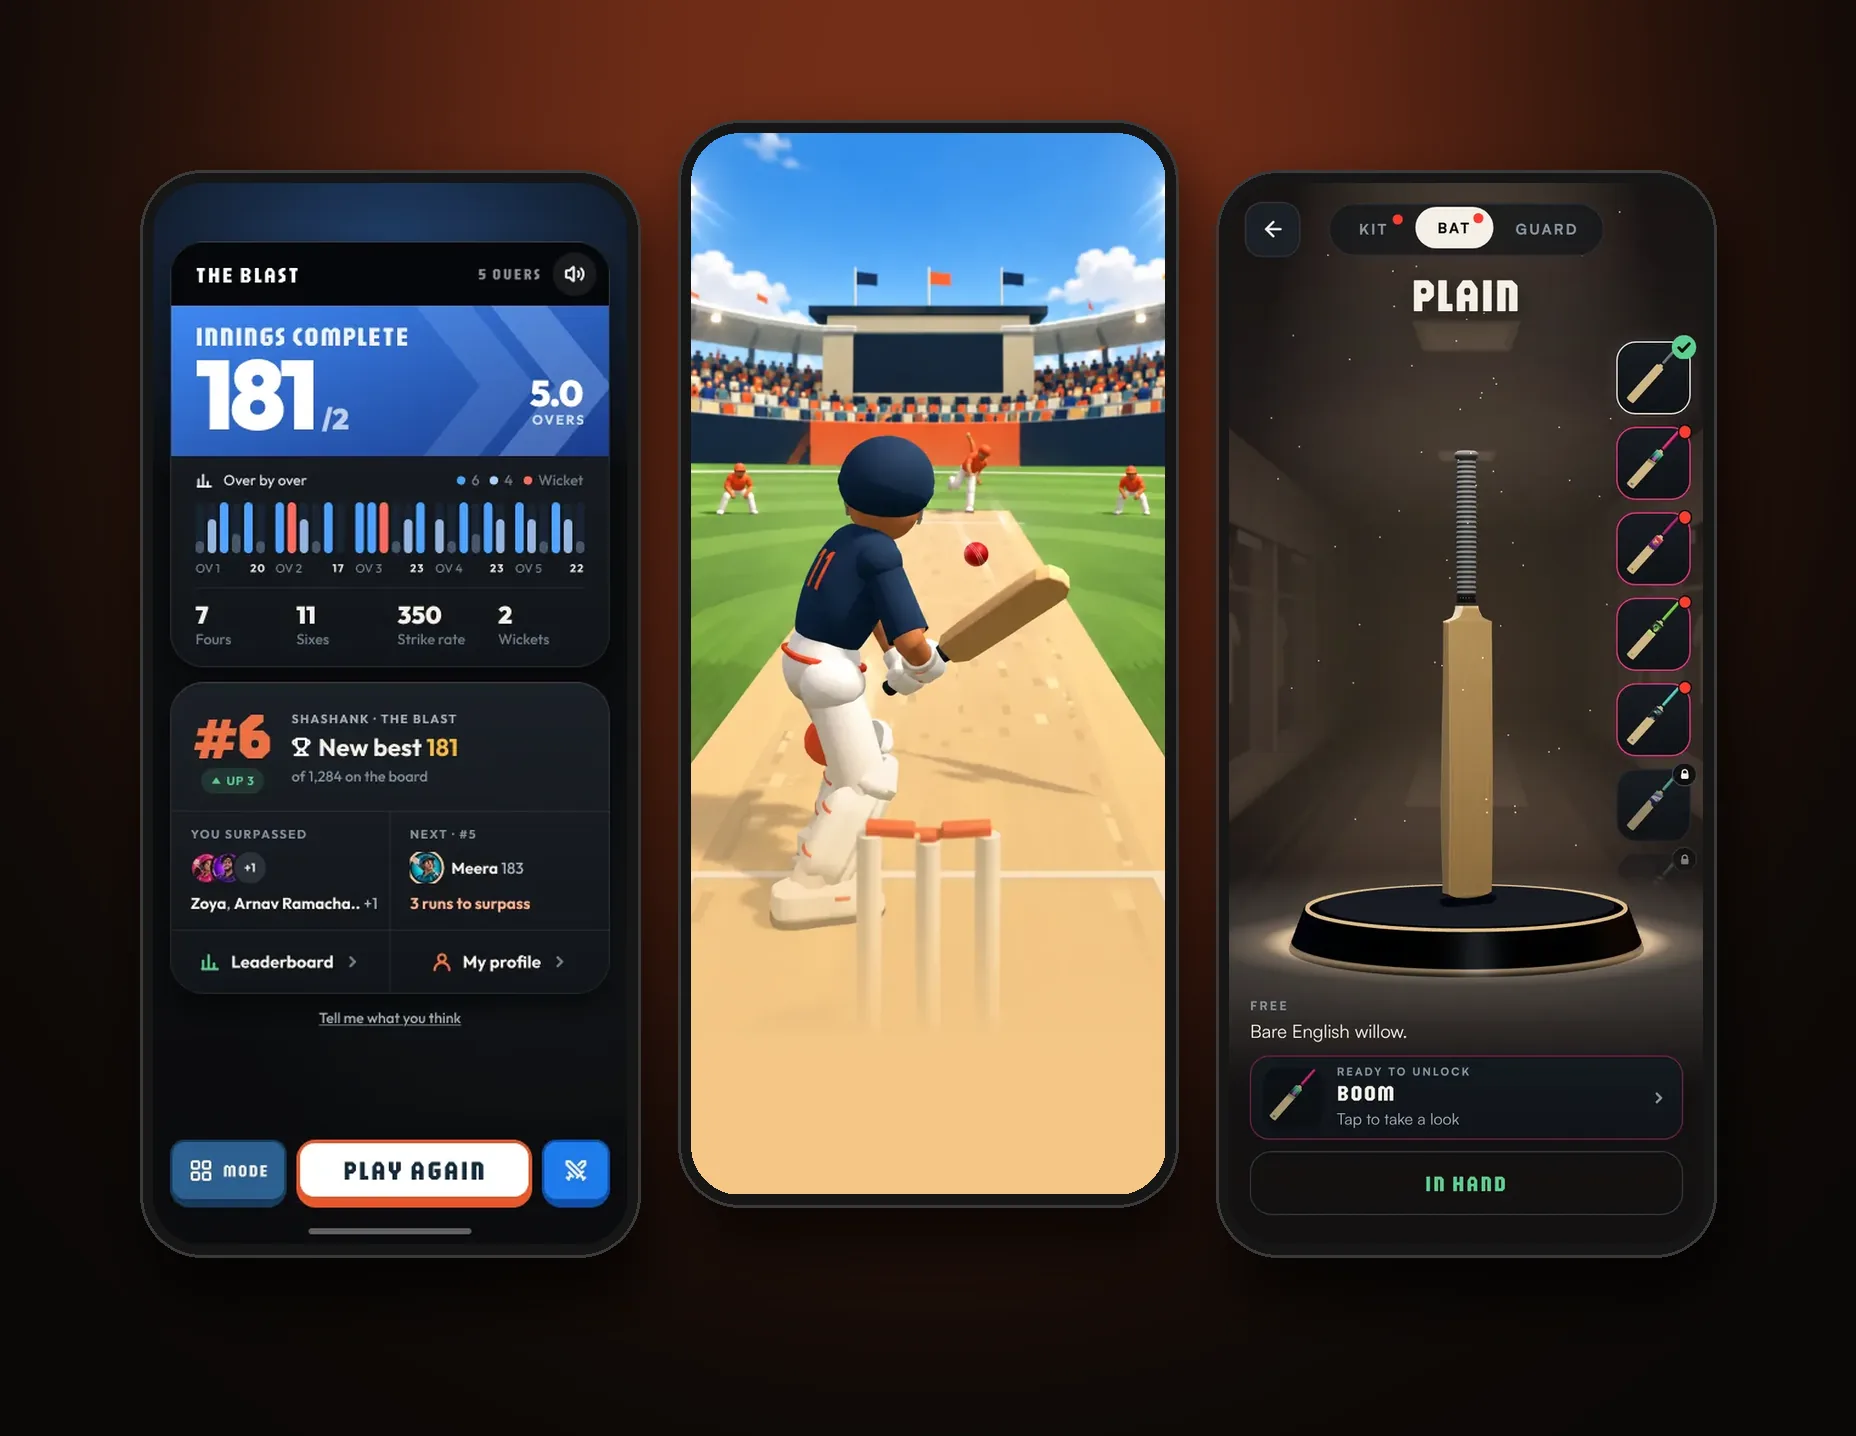
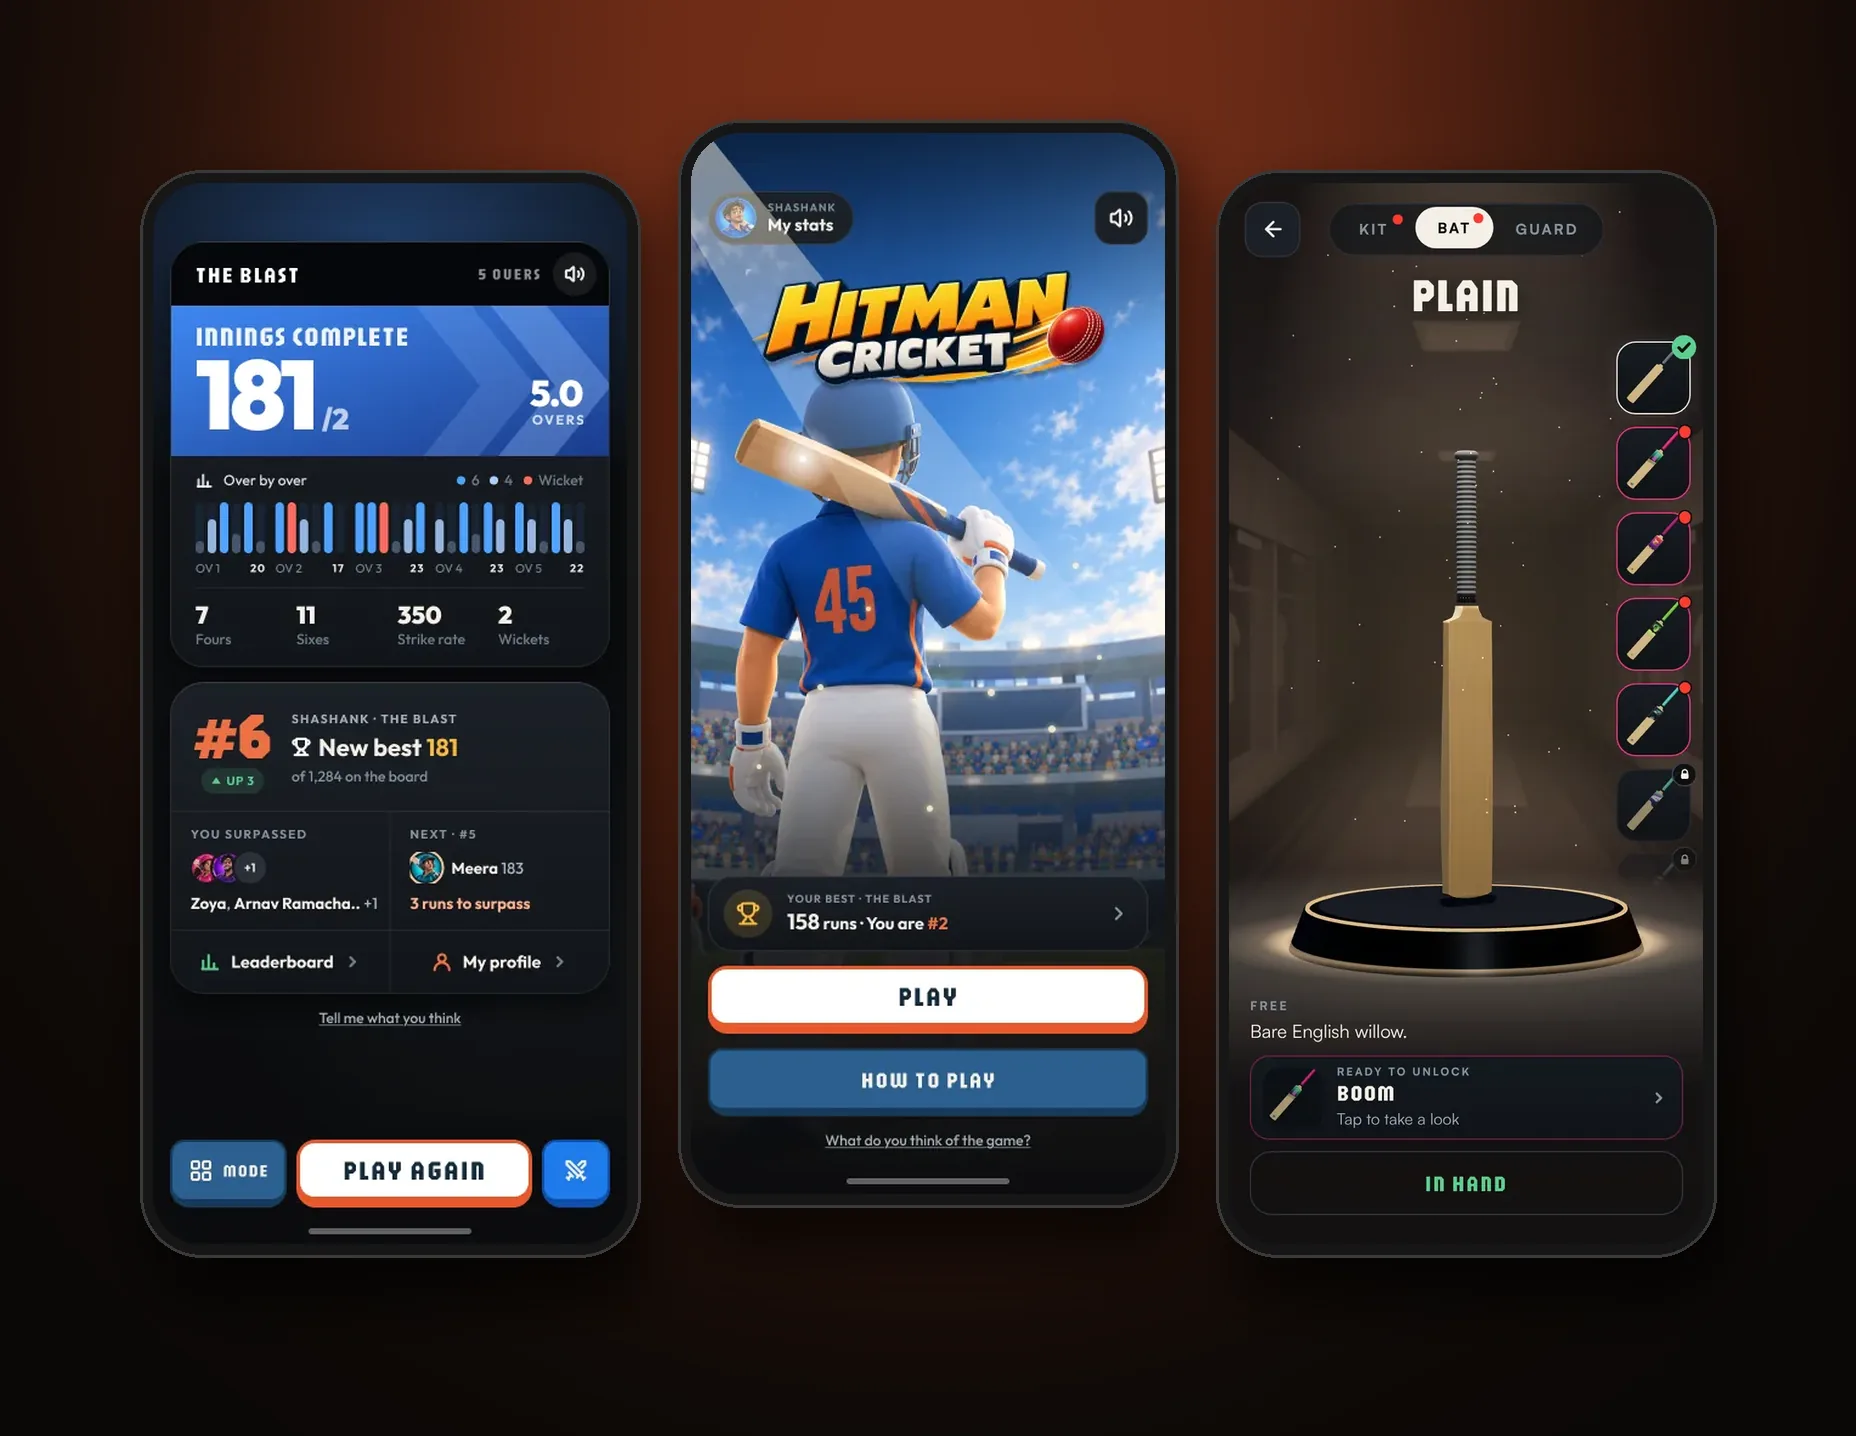
Hitman Cricket: use the current start screen as the cover
The case study's hero, the Featured Work card and the share image all
showed an early in-play frame. They now show the start screen from the
Figma handover (129:4591), which carries the logo itself, so the logo laid
over the old frame is gone.

Claude-Session: https://claude.ai/code/session_01BJedWs3N7H7j5EmtSgwCKm

Changed region(s): [[0.3438, 0.0919, 0.6562, 0.8579]]

diff --git a/work/hitman-cricket/index.html b/work/hitman-cricket/index.html
@@ -47,8 +47,7 @@
       </a>
     </div>
     <div class="hero-art">
-      <div class="phone"><img src="../../public/img/hitman/cover.webp" alt="Hitman Cricket in play: a batter at the crease as the bowler runs in" width="720" height="1280"></div>
-      <img class="hero-title" src="../../public/img/hitman/title.webp" alt="" width="1100" height="399">
+      <div class="phone"><img src="../../public/img/hitman/cover.webp" alt="The Hitman Cricket start screen: the batter walking out, the player&rsquo;s best score, and Play and How to play" width="402" height="874"></div>
     </div>
   </div>
 </section>

diff --git a/assets/css/case.css b/assets/css/case.css
@@ -152,11 +152,6 @@ strong { color: var(--ink); font-weight: 500; }
 
 .hero-art { position: relative; display: grid; justify-items: center; }
 .hero-art .phone { width: min(300px, 70vw); transform: rotate(3deg); }
-.hero-title {
-  position: absolute; z-index: 2; width: min(300px, 74vw);
-  left: 50%; top: 9%; transform: translateX(-50%) rotate(3deg);
-  pointer-events: none;
-}
 
 /* ---------- the phone ----------
    Every screen sits in the same frame so a row of them reads as one product,
